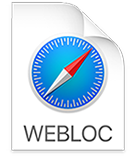
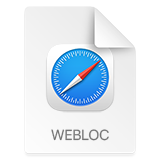
Updated colors

Changed region(s): [[0.0588, 0.0, 0.9412, 0.9375], [0.0882, 0.7812, 0.9118, 0.9688], [0.7059, 0.1562, 0.7353, 0.1875]]

diff --git a/index.html b/index.html
@@ -305,8 +305,9 @@
 
         <section id="content-tab1">
             <div class="tab-div">
-                <p style="text-align: center; padding:10px 0 10px 0; font-size: 25px; color: #4f7ece;"><b>What can
-                    WeblocOpener do?</b></p>
+                <p style="text-align: center; padding:10px 0 10px 0; font-size: 25px; color: #3e64dd;">
+                    <b>What can WeblocOpener do?</b>
+                </p>
                 <ul class="faq">
 
                     <li>
@@ -445,7 +446,7 @@
 
         <section id="content-tab2">
             <div class="tab-div">
-                <p style="text-align: center; padding:10px 0 10px 0; font-size: 25px; color: #4f7ece;"><b>What can do
+                <p style="text-align: center; padding:10px 0 10px 0; font-size: 25px; color: #3e64dd;"><b>What can do
                     WeblocOpener on Windows?</b></p>
                 <p class="youtubeDefault" style="text-align: center;">
                     <iframe allowfullscreen src="https://www.youtube.com/embed/soFOvvyd8Hs"
@@ -456,7 +457,7 @@
 
         <section id="content-tab3">
             <div class="tab-div">
-                <p style="text-align: center; padding:10px 0 10px 0; font-size: 25px; color: #4f7ece;"><b>What can do
+                <p style="text-align: center; padding:10px 0 10px 0; font-size: 25px; color: #3e64dd;"><b>What can do
                     WeblocOpener on Debian GNU/Linux?</b></p>
                 <p class="youtubeDefault" style="text-align: center;">
                     <iframe allowfullscreen src="https://www.youtube.com/embed/FMYBHDiyo0Y"
@@ -466,12 +467,12 @@
         </section>
 
         <section id="content-tab4">
-            <p style="text-align: center; padding:10px 0 10px 0; font-size: 25px; color: #4f7ece;"><b>Contact me
+            <p style="text-align: center; padding:10px 0 10px 0; font-size: 25px; color: #3e64dd;"><b>Contact me
                 then!</b></p>
             <br>
             <ul>
-                <li>My telegram account: <a href="http://t.me/bench_doos">@bench_doos</a></li>
-                <li>Visit WeblocOpener telegram <a href="https://t.me/WeblocOpener">channel</a> to see what's new.</li>
+                <li>My telegram account: <a href="https://t.me/incredible_bd">@incredible_bd</a></li>
+                <li>Visit WeblocOpener telegram <a href="https://t.me/WeblocOpener">channel</a> to be up-to-date.</li>
                 <li>Visit WeblocOpener twitter <a href="https://t.me/WeblocOpener">page</a> to contact me.</li>
                 <li>Send me an e-mail to report a problem:
                     <a href="mailto:weblocopener@gmail.com?subject=WeblocOpener feedback
@@ -495,7 +496,7 @@
                     aria-hidden="true" class="octicon octicon-link"></span></a>System Requirements</h2>
 
         <table>
-            <thead style="background-color: #4c4f54;">
+            <thead style="background-color: #1c222b;">
             <tr>
                 <th>Type</th>
                 <th>Requirements</th>
@@ -538,11 +539,11 @@
                 aria-hidden="true" class="octicon octicon-link"></span></a>Supported features</h2>
 
     <table>
-        <thead style="background-color: #4c4f54;">
+        <thead style="background-color: #1c222b;">
         <tr>
             <th>Feature</th>
             <th style="color: #4f7ece; text-align: center;"><i aria-hidden="true" class="fa fa-windows"></i></th>
-            <th style="color: black; text-align: center;"><i aria-hidden="true" class="fab fa-linux"></i></th>
+            <th style="color: #a4a4a4; text-align: center;"><i aria-hidden="true" class="fab fa-linux"></i></th>
             <th style="color: #888888; text-align: center;"><i aria-hidden="true" class="fab fa-apple"></i></th>
         </tr>
         </thead>
@@ -796,7 +797,7 @@
         <span class="site-footer-owner"><a href="https://github.com/benchdoos/WeblocOpener">WeblocOpener</a> is maintained by <a
                 href="https://github.com/benchdoos">benchdoos</a> (Eugene Zrazhevsky). <a
                 href="mailto:weblocopener@gmail.com" title="Send e-mail to me.">Contact me!</a>&nbsp;&nbsp;<a
-                href="http://t.me/bench_doos" title="Telegram: Contact me fast! @bench_doos"><img
+                href="https://t.me/incredible_bd" title="Telegram: Contact me fast! @incredible_bd"><img
                 src="img/telegram-icon-128.png" style="height: 18px;"/></a></span>
 
 

diff --git a/stylesheets/tabs.css b/stylesheets/tabs.css
@@ -176,7 +176,7 @@ h1 {
     color: #aaa;
     border: 0px solid #ddd;
     border-width: 1px 1px 1px 1px;
-    background: #4c4f54;
+    background: #1c222b;
     border-radius: 3px 3px 0 0;
 }
 
@@ -214,7 +214,7 @@ h1 {
 }
 
 .tabs > input:checked + label[for*="4"] {/*MacOS*/
-    color: #969696;
+    color: #3e64dd;
 }
 
 /* Изменения стиля переключателей вкладок при наведении */
@@ -227,8 +227,8 @@ h1 {
 /* Стили для активной вкладки */
 
 .tabs > input:checked + label {
-    color: #4f7ece;
-    border-top: 1px solid #4f7ece;
+    color: #3e64dd;
+    border-top: 1px solid #3e64dd;
     border-bottom: 1px solid #fff;
     /*background: #fff;*/
 }

diff --git a/stylesheets/stylesheet-dark.css b/stylesheets/stylesheet-dark.css
@@ -17,7 +17,7 @@ table td {
 }
 
 a {
-    color: #518ad0;
+    color: #3e64dd;
     text-decoration: none;
 }
 
@@ -29,7 +29,7 @@ a:hover {
     display: inline-block;
     margin-bottom: 1rem;
     color: rgba(226, 226, 226, 0.7);
-    background-color: rgba(255, 255, 255, 0.2);
+    background-color: rgb(76 57 57 / 20%);
     border: 1px solid rgba(255, 255, 255, 0.2);
     border-radius: 0.3rem;
     transition: color 0.2s, background-color 0.2s, border-color 0.2s;
@@ -368,7 +368,7 @@ a:hover {
     margin-top: 2rem;
     margin-bottom: 1rem;
     font-weight: normal;
-    color: #5594ff;
+    color: #3e64dd;
 }
 
 .main-content p {

diff --git a/stylesheets/updateInfo.css b/stylesheets/updateInfo.css
@@ -4,7 +4,7 @@
     border-width: 1px 1px 0 1px;
     border-radius: 8px 8px 0 0;
     /*background-color: #eaf5ff;*/
-    background-color: #4c4f54;
+    background-color: #1c222b;
     margin-bottom: 0;
     /*padding: 0 10px 0 10px;*/
     font-weight: bold;
@@ -13,7 +13,7 @@
 
 
 #update_header {
-    color: #1e6bb8;
+    color: #3e64dd;
     white-space: nowrap;
 }
 
@@ -44,7 +44,7 @@
     vertical-align: top;
     display: inline-flex;
 
-    background-color: #1e6bb8;
+    background-color: #3e64dd;
     color: white;
     padding: 0 .4em 0;
     border-radius: 4px;

diff --git a/stylesheets/stylesheet.css b/stylesheets/stylesheet.css
@@ -371,7 +371,7 @@ a:hover {
     margin-top: 2rem;
     margin-bottom: 1rem;
     font-weight: normal;
-    color: #4f7ece;
+    color: #3e64dd;
 }
 
 .main-content p {
